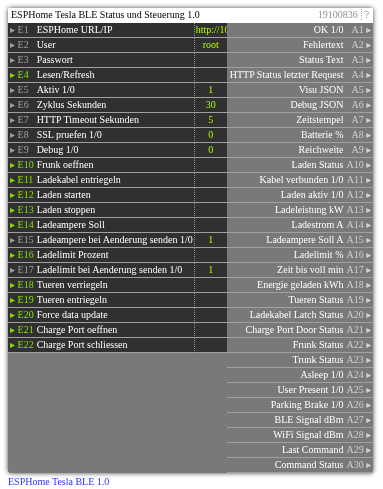
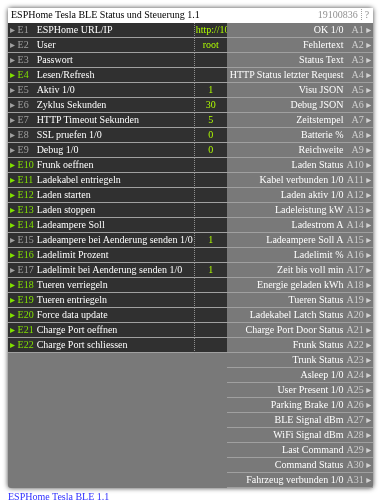
Update Tesla BLE LBS connection output

diff --git a/docs/images/19100836.html b/docs/images/19100836.html
@@ -237,5 +237,5 @@ body {
 }
 
 </style></head><body>
-<div class="lbs-preview-wrap"><table border="0" cellspacing="0" cellpadding="1" class="app1_elContainer" style="position:relative; box-shadow:0 0 5px #404040; pointer-events:none;"><tr><td colspan="5" class="app1_elTitel"><div class="app1_cellContent" style="width:100%;"><table border="0" cellpadding="0" cellspacing="0" style="width:100%; table-layout:auto;"><tr><td>ESPHome Tesla BLE Status und Steuerung 1.0</td><td align="right"><span class="app1_elId">19100836</span><span class="app1_elHelp">?</span></td></tr></table></div></td></tr><tr><td class="app1_elInputNum col0"><div class="app1_cellContent">&#x25B8;&nbsp;E1</div></td><td class="app1_elInput"><div class="app1_cellContent">ESPHome URL/IP</div></td><td class="app1_elInputValue"><div class="app1_cellContent">http://10.0.1.141</div></td><td class="app1_elOutput"><div class="app1_cellContent">OK 1/0</div></td><td class="app1_elOutputNum"><div class="app1_cellContent">A1&nbsp;&#x25B8;</div></td></tr><tr><td class="app1_elInputNum col0"><div class="app1_cellContent">&#x25B8;&nbsp;E2</div></td><td class="app1_elInput"><div class="app1_cellContent">User</div></td><td class="app1_elInputValue"><div class="app1_cellContent">root</div></td><td class="app1_elOutput"><div class="app1_cellContent">Fehlertext</div></td><td class="app1_elOutputNum"><div class="app1_cellContent">A2&nbsp;&#x25B8;</div></td></tr><tr><td class="app1_elInputNum col0"><div class="app1_cellContent">&#x25B8;&nbsp;E3</div></td><td class="app1_elInput"><div class="app1_cellContent">Passwort</div></td><td class="app1_elInputValue"><div class="app1_cellContent"></div></td><td class="app1_elOutput"><div class="app1_cellContent">Status Text</div></td><td class="app1_elOutputNum"><div class="app1_cellContent">A3&nbsp;&#x25B8;</div></td></tr><tr><td class="app1_elInputNum col1"><div class="app1_cellContent">&#x25B8;&nbsp;E4</div></td><td class="app1_elInput"><div class="app1_cellContent">Lesen/Refresh</div></td><td class="app1_elInputValue"><div class="app1_cellContent"></div></td><td class="app1_elOutput"><div class="app1_cellContent">HTTP Status letzter Request</div></td><td class="app1_elOutputNum"><div class="app1_cellContent">A4&nbsp;&#x25B8;</div></td></tr><tr><td class="app1_elInputNum col0"><div class="app1_cellContent">&#x25B8;&nbsp;E5</div></td><td class="app1_elInput"><div class="app1_cellContent">Aktiv 1/0</div></td><td class="app1_elInputValue"><div class="app1_cellContent">1</div></td><td class="app1_elOutput"><div class="app1_cellContent">Visu JSON</div></td><td class="app1_elOutputNum"><div class="app1_cellContent">A5&nbsp;&#x25B8;</div></td></tr><tr><td class="app1_elInputNum col0"><div class="app1_cellContent">&#x25B8;&nbsp;E6</div></td><td class="app1_elInput"><div class="app1_cellContent">Zyklus Sekunden</div></td><td class="app1_elInputValue"><div class="app1_cellContent">30</div></td><td class="app1_elOutput"><div class="app1_cellContent">Debug JSON</div></td><td class="app1_elOutputNum"><div class="app1_cellContent">A6&nbsp;&#x25B8;</div></td></tr><tr><td class="app1_elInputNum col0"><div class="app1_cellContent">&#x25B8;&nbsp;E7</div></td><td class="app1_elInput"><div class="app1_cellContent">HTTP Timeout Sekunden</div></td><td class="app1_elInputValue"><div class="app1_cellContent">5</div></td><td class="app1_elOutput"><div class="app1_cellContent">Zeitstempel</div></td><td class="app1_elOutputNum"><div class="app1_cellContent">A7&nbsp;&#x25B8;</div></td></tr><tr><td class="app1_elInputNum col0"><div class="app1_cellContent">&#x25B8;&nbsp;E8</div></td><td class="app1_elInput"><div class="app1_cellContent">SSL pruefen 1/0</div></td><td class="app1_elInputValue"><div class="app1_cellContent">0</div></td><td class="app1_elOutput"><div class="app1_cellContent">Batterie %</div></td><td class="app1_elOutputNum"><div class="app1_cellContent">A8&nbsp;&#x25B8;</div></td></tr><tr><td class="app1_elInputNum col0"><div class="app1_cellContent">&#x25B8;&nbsp;E9</div></td><td class="app1_elInput"><div class="app1_cellContent">Debug 1/0</div></td><td class="app1_elInputValue"><div class="app1_cellContent">0</div></td><td class="app1_elOutput"><div class="app1_cellContent">Reichweite</div></td><td class="app1_elOutputNum"><div class="app1_cellContent">A9&nbsp;&#x25B8;</div></td></tr><tr><td class="app1_elInputNum col1"><div class="app1_cellContent">&#x25B8;&nbsp;E10</div></td><td class="app1_elInput"><div class="app1_cellContent">Frunk oeffnen</div></td><td class="app1_elInputValue"><div class="app1_cellContent"></div></td><td class="app1_elOutput"><div class="app1_cellContent">Laden Status</div></td><td class="app1_elOutputNum"><div class="app1_cellContent">A10&nbsp;&#x25B8;</div></td></tr><tr><td class="app1_elInputNum col1"><div class="app1_cellContent">&#x25B8;&nbsp;E11</div></td><td class="app1_elInput"><div class="app1_cellContent">Ladekabel entriegeln</div></td><td class="app1_elInputValue"><div class="app1_cellContent"></div></td><td class="app1_elOutput"><div class="app1_cellContent">Kabel verbunden 1/0</div></td><td class="app1_elOutputNum"><div class="app1_cellContent">A11&nbsp;&#x25B8;</div></td></tr><tr><td class="app1_elInputNum col1"><div class="app1_cellContent">&#x25B8;&nbsp;E12</div></td><td class="app1_elInput"><div class="app1_cellContent">Laden starten</div></td><td class="app1_elInputValue"><div class="app1_cellContent"></div></td><td class="app1_elOutput"><div class="app1_cellContent">Laden aktiv 1/0</div></td><td class="app1_elOutputNum"><div class="app1_cellContent">A12&nbsp;&#x25B8;</div></td></tr><tr><td class="app1_elInputNum col1"><div class="app1_cellContent">&#x25B8;&nbsp;E13</div></td><td class="app1_elInput"><div class="app1_cellContent">Laden stoppen</div></td><td class="app1_elInputValue"><div class="app1_cellContent"></div></td><td class="app1_elOutput"><div class="app1_cellContent">Ladeleistung kW</div></td><td class="app1_elOutputNum"><div class="app1_cellContent">A13&nbsp;&#x25B8;</div></td></tr><tr><td class="app1_elInputNum col1"><div class="app1_cellContent">&#x25B8;&nbsp;E14</div></td><td class="app1_elInput"><div class="app1_cellContent">Ladeampere Soll</div></td><td class="app1_elInputValue"><div class="app1_cellContent"></div></td><td class="app1_elOutput"><div class="app1_cellContent">Ladestrom A</div></td><td class="app1_elOutputNum"><div class="app1_cellContent">A14&nbsp;&#x25B8;</div></td></tr><tr><td class="app1_elInputNum col0"><div class="app1_cellContent">&#x25B8;&nbsp;E15</div></td><td class="app1_elInput"><div class="app1_cellContent">Ladeampere bei Aenderung senden 1/0</div></td><td class="app1_elInputValue"><div class="app1_cellContent">1</div></td><td class="app1_elOutput"><div class="app1_cellContent">Ladeampere Soll A</div></td><td class="app1_elOutputNum"><div class="app1_cellContent">A15&nbsp;&#x25B8;</div></td></tr><tr><td class="app1_elInputNum col1"><div class="app1_cellContent">&#x25B8;&nbsp;E16</div></td><td class="app1_elInput"><div class="app1_cellContent">Ladelimit Prozent</div></td><td class="app1_elInputValue"><div class="app1_cellContent"></div></td><td class="app1_elOutput"><div class="app1_cellContent">Ladelimit %</div></td><td class="app1_elOutputNum"><div class="app1_cellContent">A16&nbsp;&#x25B8;</div></td></tr><tr><td class="app1_elInputNum col0"><div class="app1_cellContent">&#x25B8;&nbsp;E17</div></td><td class="app1_elInput"><div class="app1_cellContent">Ladelimit bei Aenderung senden 1/0</div></td><td class="app1_elInputValue"><div class="app1_cellContent">1</div></td><td class="app1_elOutput"><div class="app1_cellContent">Zeit bis voll min</div></td><td class="app1_elOutputNum"><div class="app1_cellContent">A17&nbsp;&#x25B8;</div></td></tr><tr><td class="app1_elInputNum col1"><div class="app1_cellContent">&#x25B8;&nbsp;E18</div></td><td class="app1_elInput"><div class="app1_cellContent">Tueren verriegeln</div></td><td class="app1_elInputValue"><div class="app1_cellContent"></div></td><td class="app1_elOutput"><div class="app1_cellContent">Energie geladen kWh</div></td><td class="app1_elOutputNum"><div class="app1_cellContent">A18&nbsp;&#x25B8;</div></td></tr><tr><td class="app1_elInputNum col1"><div class="app1_cellContent">&#x25B8;&nbsp;E19</div></td><td class="app1_elInput"><div class="app1_cellContent">Tueren entriegeln</div></td><td class="app1_elInputValue"><div class="app1_cellContent"></div></td><td class="app1_elOutput"><div class="app1_cellContent">Tueren Status</div></td><td class="app1_elOutputNum"><div class="app1_cellContent">A19&nbsp;&#x25B8;</div></td></tr><tr><td class="app1_elInputNum col1"><div class="app1_cellContent">&#x25B8;&nbsp;E20</div></td><td class="app1_elInput"><div class="app1_cellContent">Force data update</div></td><td class="app1_elInputValue"><div class="app1_cellContent"></div></td><td class="app1_elOutput"><div class="app1_cellContent">Ladekabel Latch Status</div></td><td class="app1_elOutputNum"><div class="app1_cellContent">A20&nbsp;&#x25B8;</div></td></tr><tr><td class="app1_elInputNum col1"><div class="app1_cellContent">&#x25B8;&nbsp;E21</div></td><td class="app1_elInput"><div class="app1_cellContent">Charge Port oeffnen</div></td><td class="app1_elInputValue"><div class="app1_cellContent"></div></td><td class="app1_elOutput"><div class="app1_cellContent">Charge Port Door Status</div></td><td class="app1_elOutputNum"><div class="app1_cellContent">A21&nbsp;&#x25B8;</div></td></tr><tr><td class="app1_elInputNum col1"><div class="app1_cellContent">&#x25B8;&nbsp;E22</div></td><td class="app1_elInput"><div class="app1_cellContent">Charge Port schliessen</div></td><td class="app1_elInputValue"><div class="app1_cellContent"></div></td><td class="app1_elOutput"><div class="app1_cellContent">Frunk Status</div></td><td class="app1_elOutputNum"><div class="app1_cellContent">A22&nbsp;&#x25B8;</div></td></tr><tr><td class="app1_elDefault" colspan="3"></td><td class="app1_elOutput"><div class="app1_cellContent">Trunk Status</div></td><td class="app1_elOutputNum"><div class="app1_cellContent">A23&nbsp;&#x25B8;</div></td></tr><tr><td class="app1_elDefault" colspan="3"></td><td class="app1_elOutput"><div class="app1_cellContent">Asleep 1/0</div></td><td class="app1_elOutputNum"><div class="app1_cellContent">A24&nbsp;&#x25B8;</div></td></tr><tr><td class="app1_elDefault" colspan="3"></td><td class="app1_elOutput"><div class="app1_cellContent">User Present 1/0</div></td><td class="app1_elOutputNum"><div class="app1_cellContent">A25&nbsp;&#x25B8;</div></td></tr><tr><td class="app1_elDefault" colspan="3"></td><td class="app1_elOutput"><div class="app1_cellContent">Parking Brake 1/0</div></td><td class="app1_elOutputNum"><div class="app1_cellContent">A26&nbsp;&#x25B8;</div></td></tr><tr><td class="app1_elDefault" colspan="3"></td><td class="app1_elOutput"><div class="app1_cellContent">BLE Signal dBm</div></td><td class="app1_elOutputNum"><div class="app1_cellContent">A27&nbsp;&#x25B8;</div></td></tr><tr><td class="app1_elDefault" colspan="3"></td><td class="app1_elOutput"><div class="app1_cellContent">WiFi Signal dBm</div></td><td class="app1_elOutputNum"><div class="app1_cellContent">A28&nbsp;&#x25B8;</div></td></tr><tr><td class="app1_elDefault" colspan="3"></td><td class="app1_elOutput"><div class="app1_cellContent">Last Command</div></td><td class="app1_elOutputNum"><div class="app1_cellContent">A29&nbsp;&#x25B8;</div></td></tr><tr><td class="app1_elDefault" colspan="3"></td><td class="app1_elOutput"><div class="app1_cellContent">Command Status</div></td><td class="app1_elOutputNum"><div class="app1_cellContent">A30&nbsp;&#x25B8;</div></td></tr></table><div class="app1_divTitelInfo">ESPHome Tesla BLE 1.0</div></div>
+<div class="lbs-preview-wrap"><table border="0" cellspacing="0" cellpadding="1" class="app1_elContainer" style="position:relative; box-shadow:0 0 5px #404040; pointer-events:none;"><tr><td colspan="5" class="app1_elTitel"><div class="app1_cellContent" style="width:100%;"><table border="0" cellpadding="0" cellspacing="0" style="width:100%; table-layout:auto;"><tr><td>ESPHome Tesla BLE Status und Steuerung 1.1</td><td align="right"><span class="app1_elId">19100836</span><span class="app1_elHelp">?</span></td></tr></table></div></td></tr><tr><td class="app1_elInputNum col0"><div class="app1_cellContent">&#x25B8;&nbsp;E1</div></td><td class="app1_elInput"><div class="app1_cellContent">ESPHome URL/IP</div></td><td class="app1_elInputValue"><div class="app1_cellContent">http://10.0.1.141</div></td><td class="app1_elOutput"><div class="app1_cellContent">OK 1/0</div></td><td class="app1_elOutputNum"><div class="app1_cellContent">A1&nbsp;&#x25B8;</div></td></tr><tr><td class="app1_elInputNum col0"><div class="app1_cellContent">&#x25B8;&nbsp;E2</div></td><td class="app1_elInput"><div class="app1_cellContent">User</div></td><td class="app1_elInputValue"><div class="app1_cellContent">root</div></td><td class="app1_elOutput"><div class="app1_cellContent">Fehlertext</div></td><td class="app1_elOutputNum"><div class="app1_cellContent">A2&nbsp;&#x25B8;</div></td></tr><tr><td class="app1_elInputNum col0"><div class="app1_cellContent">&#x25B8;&nbsp;E3</div></td><td class="app1_elInput"><div class="app1_cellContent">Passwort</div></td><td class="app1_elInputValue"><div class="app1_cellContent"></div></td><td class="app1_elOutput"><div class="app1_cellContent">Status Text</div></td><td class="app1_elOutputNum"><div class="app1_cellContent">A3&nbsp;&#x25B8;</div></td></tr><tr><td class="app1_elInputNum col1"><div class="app1_cellContent">&#x25B8;&nbsp;E4</div></td><td class="app1_elInput"><div class="app1_cellContent">Lesen/Refresh</div></td><td class="app1_elInputValue"><div class="app1_cellContent"></div></td><td class="app1_elOutput"><div class="app1_cellContent">HTTP Status letzter Request</div></td><td class="app1_elOutputNum"><div class="app1_cellContent">A4&nbsp;&#x25B8;</div></td></tr><tr><td class="app1_elInputNum col0"><div class="app1_cellContent">&#x25B8;&nbsp;E5</div></td><td class="app1_elInput"><div class="app1_cellContent">Aktiv 1/0</div></td><td class="app1_elInputValue"><div class="app1_cellContent">1</div></td><td class="app1_elOutput"><div class="app1_cellContent">Visu JSON</div></td><td class="app1_elOutputNum"><div class="app1_cellContent">A5&nbsp;&#x25B8;</div></td></tr><tr><td class="app1_elInputNum col0"><div class="app1_cellContent">&#x25B8;&nbsp;E6</div></td><td class="app1_elInput"><div class="app1_cellContent">Zyklus Sekunden</div></td><td class="app1_elInputValue"><div class="app1_cellContent">30</div></td><td class="app1_elOutput"><div class="app1_cellContent">Debug JSON</div></td><td class="app1_elOutputNum"><div class="app1_cellContent">A6&nbsp;&#x25B8;</div></td></tr><tr><td class="app1_elInputNum col0"><div class="app1_cellContent">&#x25B8;&nbsp;E7</div></td><td class="app1_elInput"><div class="app1_cellContent">HTTP Timeout Sekunden</div></td><td class="app1_elInputValue"><div class="app1_cellContent">5</div></td><td class="app1_elOutput"><div class="app1_cellContent">Zeitstempel</div></td><td class="app1_elOutputNum"><div class="app1_cellContent">A7&nbsp;&#x25B8;</div></td></tr><tr><td class="app1_elInputNum col0"><div class="app1_cellContent">&#x25B8;&nbsp;E8</div></td><td class="app1_elInput"><div class="app1_cellContent">SSL pruefen 1/0</div></td><td class="app1_elInputValue"><div class="app1_cellContent">0</div></td><td class="app1_elOutput"><div class="app1_cellContent">Batterie %</div></td><td class="app1_elOutputNum"><div class="app1_cellContent">A8&nbsp;&#x25B8;</div></td></tr><tr><td class="app1_elInputNum col0"><div class="app1_cellContent">&#x25B8;&nbsp;E9</div></td><td class="app1_elInput"><div class="app1_cellContent">Debug 1/0</div></td><td class="app1_elInputValue"><div class="app1_cellContent">0</div></td><td class="app1_elOutput"><div class="app1_cellContent">Reichweite</div></td><td class="app1_elOutputNum"><div class="app1_cellContent">A9&nbsp;&#x25B8;</div></td></tr><tr><td class="app1_elInputNum col1"><div class="app1_cellContent">&#x25B8;&nbsp;E10</div></td><td class="app1_elInput"><div class="app1_cellContent">Frunk oeffnen</div></td><td class="app1_elInputValue"><div class="app1_cellContent"></div></td><td class="app1_elOutput"><div class="app1_cellContent">Laden Status</div></td><td class="app1_elOutputNum"><div class="app1_cellContent">A10&nbsp;&#x25B8;</div></td></tr><tr><td class="app1_elInputNum col1"><div class="app1_cellContent">&#x25B8;&nbsp;E11</div></td><td class="app1_elInput"><div class="app1_cellContent">Ladekabel entriegeln</div></td><td class="app1_elInputValue"><div class="app1_cellContent"></div></td><td class="app1_elOutput"><div class="app1_cellContent">Kabel verbunden 1/0</div></td><td class="app1_elOutputNum"><div class="app1_cellContent">A11&nbsp;&#x25B8;</div></td></tr><tr><td class="app1_elInputNum col1"><div class="app1_cellContent">&#x25B8;&nbsp;E12</div></td><td class="app1_elInput"><div class="app1_cellContent">Laden starten</div></td><td class="app1_elInputValue"><div class="app1_cellContent"></div></td><td class="app1_elOutput"><div class="app1_cellContent">Laden aktiv 1/0</div></td><td class="app1_elOutputNum"><div class="app1_cellContent">A12&nbsp;&#x25B8;</div></td></tr><tr><td class="app1_elInputNum col1"><div class="app1_cellContent">&#x25B8;&nbsp;E13</div></td><td class="app1_elInput"><div class="app1_cellContent">Laden stoppen</div></td><td class="app1_elInputValue"><div class="app1_cellContent"></div></td><td class="app1_elOutput"><div class="app1_cellContent">Ladeleistung kW</div></td><td class="app1_elOutputNum"><div class="app1_cellContent">A13&nbsp;&#x25B8;</div></td></tr><tr><td class="app1_elInputNum col1"><div class="app1_cellContent">&#x25B8;&nbsp;E14</div></td><td class="app1_elInput"><div class="app1_cellContent">Ladeampere Soll</div></td><td class="app1_elInputValue"><div class="app1_cellContent"></div></td><td class="app1_elOutput"><div class="app1_cellContent">Ladestrom A</div></td><td class="app1_elOutputNum"><div class="app1_cellContent">A14&nbsp;&#x25B8;</div></td></tr><tr><td class="app1_elInputNum col0"><div class="app1_cellContent">&#x25B8;&nbsp;E15</div></td><td class="app1_elInput"><div class="app1_cellContent">Ladeampere bei Aenderung senden 1/0</div></td><td class="app1_elInputValue"><div class="app1_cellContent">1</div></td><td class="app1_elOutput"><div class="app1_cellContent">Ladeampere Soll A</div></td><td class="app1_elOutputNum"><div class="app1_cellContent">A15&nbsp;&#x25B8;</div></td></tr><tr><td class="app1_elInputNum col1"><div class="app1_cellContent">&#x25B8;&nbsp;E16</div></td><td class="app1_elInput"><div class="app1_cellContent">Ladelimit Prozent</div></td><td class="app1_elInputValue"><div class="app1_cellContent"></div></td><td class="app1_elOutput"><div class="app1_cellContent">Ladelimit %</div></td><td class="app1_elOutputNum"><div class="app1_cellContent">A16&nbsp;&#x25B8;</div></td></tr><tr><td class="app1_elInputNum col0"><div class="app1_cellContent">&#x25B8;&nbsp;E17</div></td><td class="app1_elInput"><div class="app1_cellContent">Ladelimit bei Aenderung senden 1/0</div></td><td class="app1_elInputValue"><div class="app1_cellContent">1</div></td><td class="app1_elOutput"><div class="app1_cellContent">Zeit bis voll min</div></td><td class="app1_elOutputNum"><div class="app1_cellContent">A17&nbsp;&#x25B8;</div></td></tr><tr><td class="app1_elInputNum col1"><div class="app1_cellContent">&#x25B8;&nbsp;E18</div></td><td class="app1_elInput"><div class="app1_cellContent">Tueren verriegeln</div></td><td class="app1_elInputValue"><div class="app1_cellContent"></div></td><td class="app1_elOutput"><div class="app1_cellContent">Energie geladen kWh</div></td><td class="app1_elOutputNum"><div class="app1_cellContent">A18&nbsp;&#x25B8;</div></td></tr><tr><td class="app1_elInputNum col1"><div class="app1_cellContent">&#x25B8;&nbsp;E19</div></td><td class="app1_elInput"><div class="app1_cellContent">Tueren entriegeln</div></td><td class="app1_elInputValue"><div class="app1_cellContent"></div></td><td class="app1_elOutput"><div class="app1_cellContent">Tueren Status</div></td><td class="app1_elOutputNum"><div class="app1_cellContent">A19&nbsp;&#x25B8;</div></td></tr><tr><td class="app1_elInputNum col1"><div class="app1_cellContent">&#x25B8;&nbsp;E20</div></td><td class="app1_elInput"><div class="app1_cellContent">Force data update</div></td><td class="app1_elInputValue"><div class="app1_cellContent"></div></td><td class="app1_elOutput"><div class="app1_cellContent">Ladekabel Latch Status</div></td><td class="app1_elOutputNum"><div class="app1_cellContent">A20&nbsp;&#x25B8;</div></td></tr><tr><td class="app1_elInputNum col1"><div class="app1_cellContent">&#x25B8;&nbsp;E21</div></td><td class="app1_elInput"><div class="app1_cellContent">Charge Port oeffnen</div></td><td class="app1_elInputValue"><div class="app1_cellContent"></div></td><td class="app1_elOutput"><div class="app1_cellContent">Charge Port Door Status</div></td><td class="app1_elOutputNum"><div class="app1_cellContent">A21&nbsp;&#x25B8;</div></td></tr><tr><td class="app1_elInputNum col1"><div class="app1_cellContent">&#x25B8;&nbsp;E22</div></td><td class="app1_elInput"><div class="app1_cellContent">Charge Port schliessen</div></td><td class="app1_elInputValue"><div class="app1_cellContent"></div></td><td class="app1_elOutput"><div class="app1_cellContent">Frunk Status</div></td><td class="app1_elOutputNum"><div class="app1_cellContent">A22&nbsp;&#x25B8;</div></td></tr><tr><td class="app1_elDefault" colspan="3"></td><td class="app1_elOutput"><div class="app1_cellContent">Trunk Status</div></td><td class="app1_elOutputNum"><div class="app1_cellContent">A23&nbsp;&#x25B8;</div></td></tr><tr><td class="app1_elDefault" colspan="3"></td><td class="app1_elOutput"><div class="app1_cellContent">Asleep 1/0</div></td><td class="app1_elOutputNum"><div class="app1_cellContent">A24&nbsp;&#x25B8;</div></td></tr><tr><td class="app1_elDefault" colspan="3"></td><td class="app1_elOutput"><div class="app1_cellContent">User Present 1/0</div></td><td class="app1_elOutputNum"><div class="app1_cellContent">A25&nbsp;&#x25B8;</div></td></tr><tr><td class="app1_elDefault" colspan="3"></td><td class="app1_elOutput"><div class="app1_cellContent">Parking Brake 1/0</div></td><td class="app1_elOutputNum"><div class="app1_cellContent">A26&nbsp;&#x25B8;</div></td></tr><tr><td class="app1_elDefault" colspan="3"></td><td class="app1_elOutput"><div class="app1_cellContent">BLE Signal dBm</div></td><td class="app1_elOutputNum"><div class="app1_cellContent">A27&nbsp;&#x25B8;</div></td></tr><tr><td class="app1_elDefault" colspan="3"></td><td class="app1_elOutput"><div class="app1_cellContent">WiFi Signal dBm</div></td><td class="app1_elOutputNum"><div class="app1_cellContent">A28&nbsp;&#x25B8;</div></td></tr><tr><td class="app1_elDefault" colspan="3"></td><td class="app1_elOutput"><div class="app1_cellContent">Last Command</div></td><td class="app1_elOutputNum"><div class="app1_cellContent">A29&nbsp;&#x25B8;</div></td></tr><tr><td class="app1_elDefault" colspan="3"></td><td class="app1_elOutput"><div class="app1_cellContent">Command Status</div></td><td class="app1_elOutputNum"><div class="app1_cellContent">A30&nbsp;&#x25B8;</div></td></tr><tr><td class="app1_elDefault" colspan="3"></td><td class="app1_elOutput"><div class="app1_cellContent">Fahrzeug verbunden 1/0</div></td><td class="app1_elOutputNum"><div class="app1_cellContent">A31&nbsp;&#x25B8;</div></td></tr></table><div class="app1_divTitelInfo">ESPHome Tesla BLE 1.1</div></div>
 </body></html>

diff --git a/LBS/19100836/19100836_lbs.php b/LBS/19100836/19100836_lbs.php
@@ -1,7 +1,7 @@
 ###[DEF]###
-[name = ESPHome Tesla BLE 1.0]
-[titel = ESPHome Tesla BLE Status und Steuerung 1.0]
-[version = 1.0]
+[name = ESPHome Tesla BLE 1.1]
+[titel = ESPHome Tesla BLE Status und Steuerung 1.1]
+[version = 1.1]
 
 [e#1 = ESPHome URL/IP #init=http://10.0.1.141]
 [e#2 = User #init=root]
@@ -57,13 +57,14 @@
 [a#28 = WiFi Signal dBm]
 [a#29 = Last Command]
 [a#30 = Command Status]
+[a#31 = Fahrzeug verbunden 1/0]
 
 [v#91 = 0] Pending
 [v#100 = ] letzte Ausgaenge JSON
 ###[/DEF]###
 
 ###[HELP]###
-Version: 1.0
+Version: 1.1
 
 ESPHome Tesla BLE (19100836)
 
@@ -71,6 +72,7 @@ Zweck:
 - Liest wichtige ESPHome-Tesla-BLE-Entities per ESPHome Web API.
 - Gibt zentrale Werte einzeln und als kompaktes JSON fuer eine spaetere VSE aus.
 - Sendet Steuerbefehle an ESPHome: Frunk oeffnen, Ladekabel entriegeln, Laden Start/Stop, Ladeampere, Ladelimit, Tueren Lock/Unlock, Charge Port Door.
+- A31 zeigt den ESPHome-BLE-Verbindungsstatus des Fahrzeugs aus switch/BLE Connection als 1/0.
 
 ESPHome-Seite:
 - web_server muss aktiv sein.
@@ -372,6 +374,7 @@ if($E){
   $asleep=_tesla36_bool(_tesla36_val($state,'asleep'));
   $userPresent=_tesla36_bool(_tesla36_val($state,'user_present'));
   $parkingBrake=_tesla36_bool(_tesla36_val($state,'parking_brake'));
+  $vehicleConnected=_tesla36_bool(_tesla36_val($state,'ble_connection'));
   $ble=_tesla36_val($state,'ble_signal');
   $wifi=_tesla36_val($state,'wifi_signal');
   $lastCommand=_tesla36_state($state,'last_command');
@@ -399,6 +402,7 @@ if($E){
     'asleep'=>$asleep,
     'user_present'=>$userPresent,
     'parking_brake'=>$parkingBrake,
+    'vehicle_connected'=>$vehicleConnected,
     'ble_signal'=>_tesla36_num($ble),
     'wifi_signal'=>_tesla36_num($wifi),
     'last_command'=>$lastCommand
@@ -431,6 +435,7 @@ if($E){
   $set(27,$ble);
   $set(28,$wifi);
   $set(29,$lastCommand);
+  $set(31,$vehicleConnected);
 
   if(count($errors)==0){
     $set(1,1);

diff --git a/bausteine/19100836/README.md b/bausteine/19100836/README.md
@@ -1,6 +1,6 @@
-# ESPHome Tesla BLE 1.0
+# ESPHome Tesla BLE 1.1
 
-![LBS 19100836 ESPHome Tesla BLE 1.0](../../docs/images/19100836.png)
+![LBS 19100836 ESPHome Tesla BLE 1.1](../../docs/images/19100836.png)
 
 **ID:** `19100836`  
 **Importdatei:** [`19100836_lbs.php`](../../LBS/19100836/19100836_lbs.php)  
@@ -8,7 +8,7 @@
 
 ## Hilfe
 
-Version: 1.0
+Version: 1.1
 
 ESPHome Tesla BLE (19100836)
 
@@ -16,11 +16,14 @@ Zweck:
 - Liest wichtige ESPHome-Tesla-BLE-Entities per ESPHome Web API.
 - Gibt zentrale Werte einzeln und als kompaktes JSON fuer eine spaetere VSE aus.
 - Sendet Steuerbefehle an ESPHome: Frunk oeffnen, Ladekabel entriegeln, Laden Start/Stop, Ladeampere, Ladelimit, Tueren Lock/Unlock, Charge Port Door.
+- A31 zeigt den ESPHome-BLE-Verbindungsstatus des Fahrzeugs aus switch/BLE Connection als 1/0.
 
 ESPHome-Seite:
 - web_server muss aktiv sein.
 - Bei gesetzter Authentifizierung E2/E3 belegen, z.B. User root und Passwort.
 - Der Baustein nutzt HTTP-REST-Endpunkte wie /sensor/Battery?detail=all und POST /lock/Charge%20Port%20Latch/unlock.
+- ESPHome-Projekt: https://github.com/yoziru/esphome-tesla-ble
+- Tesla-BLE-Bibliothek: https://github.com/yoziru/tesla-ble
 
 Eingaenge:
 - E1: URL oder IP, z.B. http://10.0.1.141 oder 10.0.1.141

diff --git a/README.md b/README.md
@@ -16,7 +16,13 @@ Auswahl eigener EDOMI-Logikbausteine.
 | [19100829](bausteine/19100829/README.md) | [cFos Switch Writer 4fach 1.0](bausteine/19100829/README.md) | Schreibt bis zu vier als Switch/Bool deklarierte cFos Charging-Manager-Variablen. |
 | [19100830](bausteine/19100830/README.md) | [cFos HTTP Reader 4fach 1.0](bausteine/19100830/README.md) | Zyklischer 4fach-Reader für cFos /cnf?cmd=get_dev_info. |
 | [19100834](bausteine/19100834/README.md) | [FriWa Wh Verteiler 1.0](bausteine/19100834/README.md) | FriWa-Zählerstand auf Zirkulation und vier Kanäle verteilen. |
-| [19100836](bausteine/19100836/README.md) | [ESPHome Tesla BLE 1.0](bausteine/19100836/README.md) | ESPHome Tesla BLE Status lesen und zentrale Steuerbefehle senden. |
+| [19100836](bausteine/19100836/README.md) | [ESPHome Tesla BLE 1.1](bausteine/19100836/README.md) | ESPHome Tesla BLE Status lesen und zentrale Steuerbefehle senden. |
 | [19100839](bausteine/19100839/README.md) | [ESPHome Midea X3 1.0](bausteine/19100839/README.md) | ESPHome Midea X3 Klima-, Fresh- und Clean-Status/Steuerung. |
 | [19100840](bausteine/19100840/README.md) | [KNX DPT 20.105 Mapper 1.0](bausteine/19100840/README.md) | KNX DPT 20.105 HVAC Control Mode zwischen DPT-Wert und 1/0-Modusobjekten mappen. |
 | [19100841](bausteine/19100841/README.md) | [Hoymiles DTUBI 1.0](bausteine/19100841/README.md) | Hoymiles HMS/HMT Wechselrichter mit integrierter WLAN-DTU lokal per TCP/Protobuf lesen. |
+
+## Externe Projekte
+
+- ESPHome Tesla BLE: https://github.com/yoziru/esphome-tesla-ble
+- Tesla BLE C++ Library: https://github.com/yoziru/tesla-ble
+- Hoymiles WiFi Python Library: https://github.com/suaveolent/hoymiles-wifi

diff --git a/bausteine/19100841/README.md b/bausteine/19100841/README.md
@@ -19,6 +19,7 @@ Zweck:
 Voraussetzungen:
 - Python 3 auf dem EDOMI-Server, bevorzugt `python3.11` oder `python3`.
 - Python-Paket `hoymiles-wifi`, z.B. `python3 -m pip install hoymiles-wifi`.
+- Projekt/Bibliothek: https://github.com/suaveolent/hoymiles-wifi
 - Netzwerkzugriff vom EDOMI-Server zur DTU.
 
 Eingaenge: